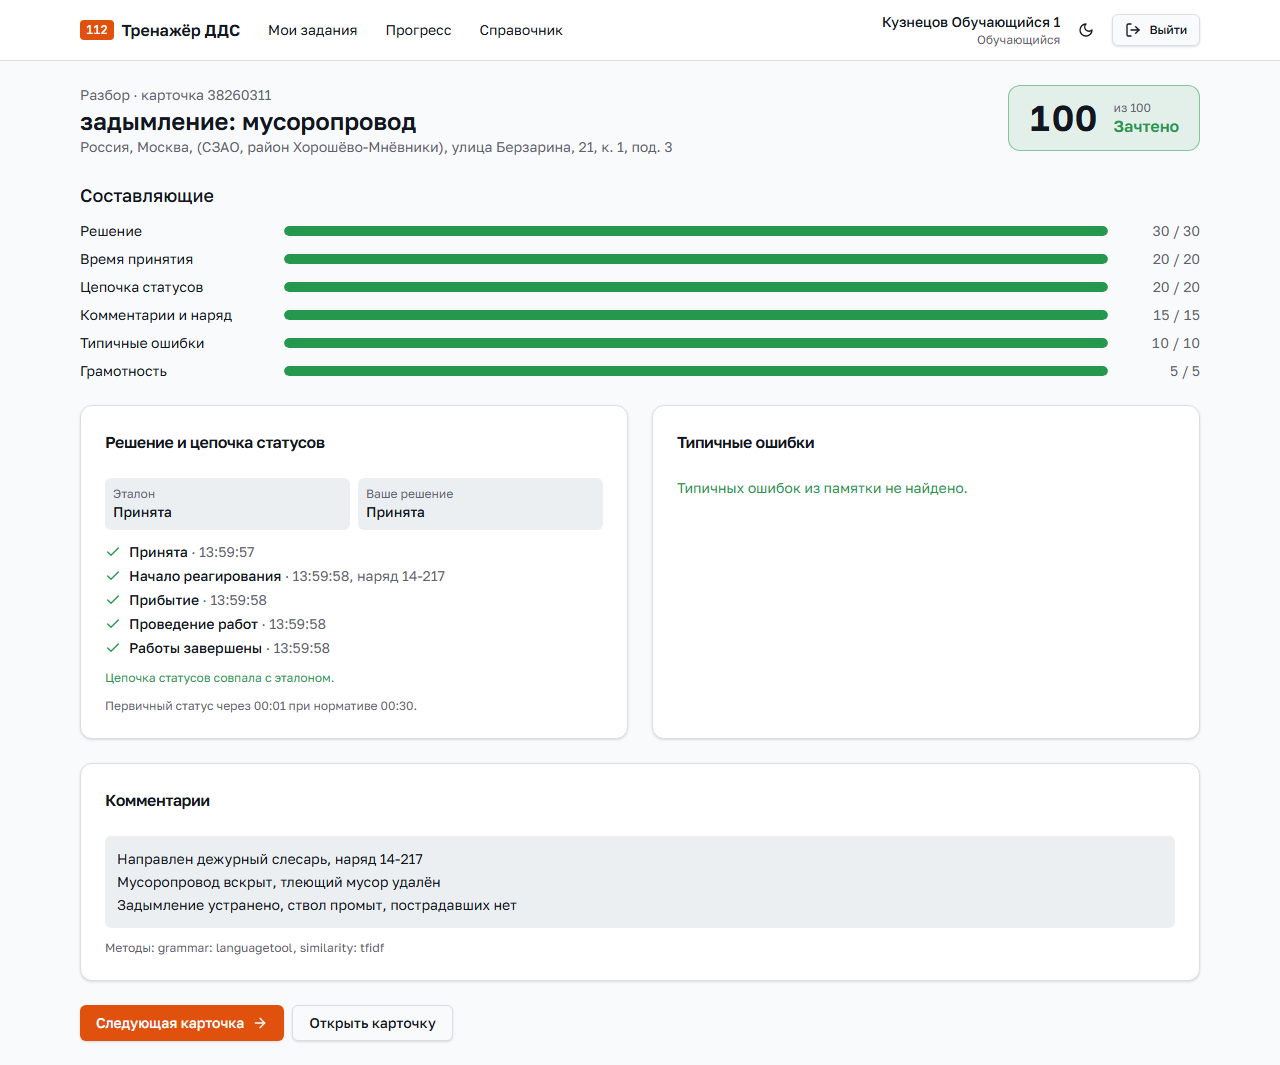
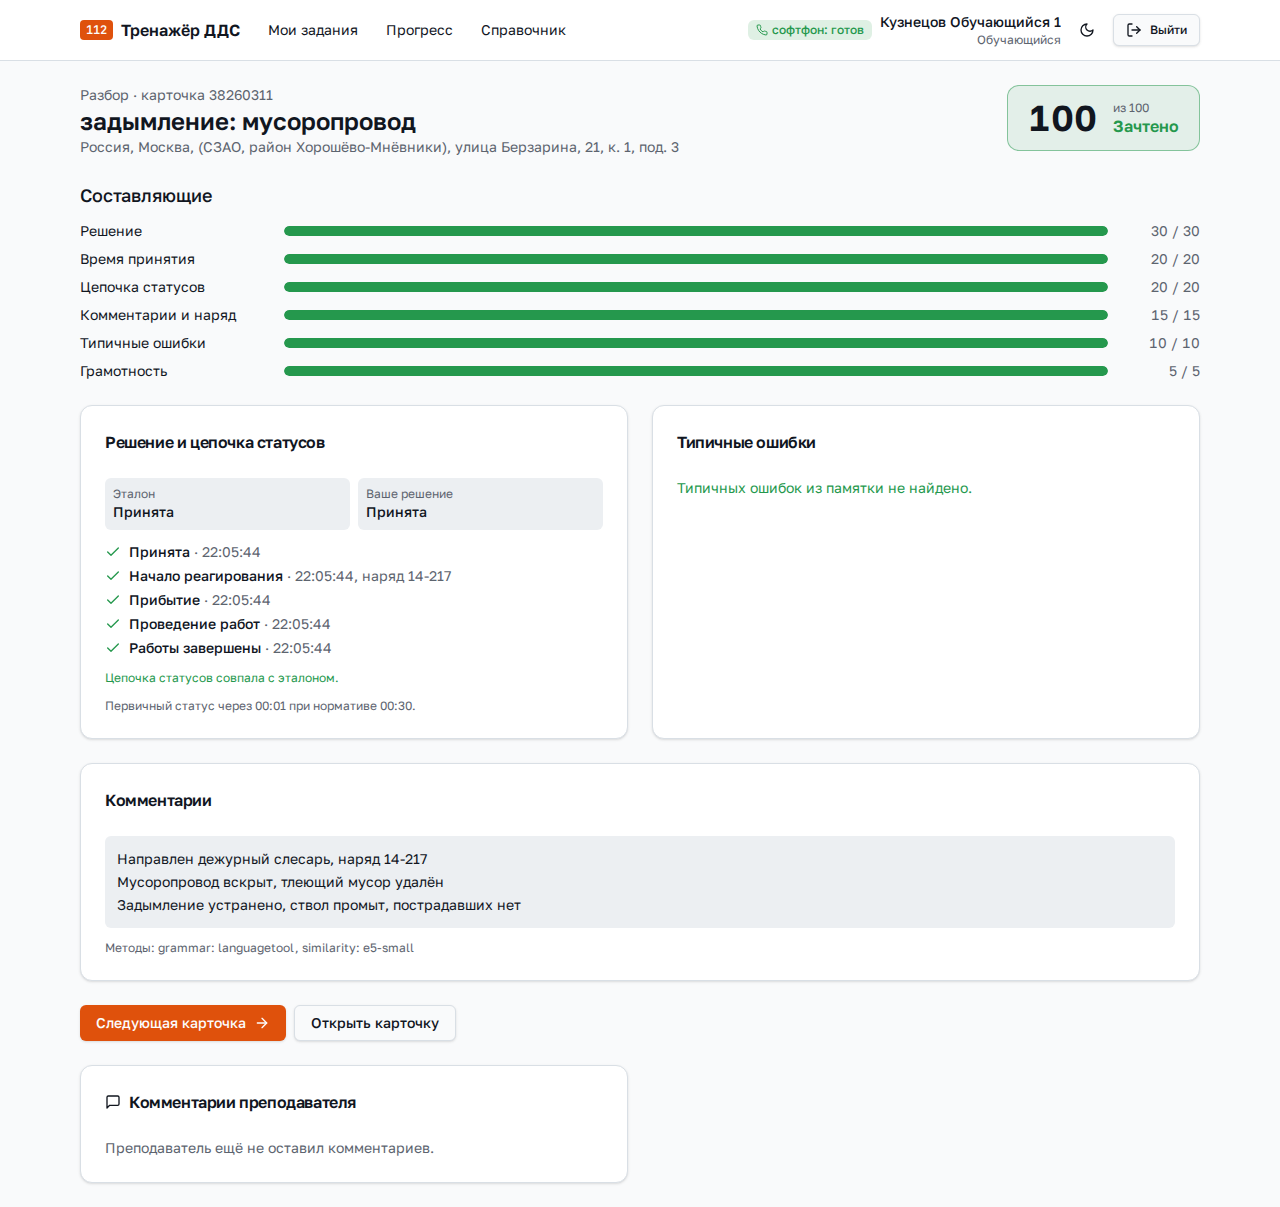
Карточка ДДС как в живой системе: переходы по шагу, строка статуса, история, главная служба
По скриншотам рабочего места ДДС от 17.09.2026 (решение Константина 21.09):
- переходы статусов по одному шагу (Принята → Начало / Завершены / Отказ; Начало →
  Прибытие / …; Прибытие → Проведение / …), расхождение с памяткой стр. 25 — в DECISIONS;
- строка статуса всегда «Статус | Номер наряда | Комментарий | ✓ ✕» (откат BUGS 8);
- без выпадающего списка «Причина отказа»: причина пишется в комментарий, оценка
  выводит её из текста, как и раньше;
- история статусов с полной датой, комментарий в той же строке после «›»;
- полоса служб переносится во второй ряд, главная служба типа подчёркнута
  (ServiceStatusOut.is_main из «Главной службы» классификатора);
- тесты статусной машины и оценки под новые переходы; e2e-помощники пишут причину
  в комментарий; USER_GUIDE, BUGS 8, DECISIONS.

diff --git a/frontend/src/emulator/card-page.tsx b/frontend/src/emulator/card-page.tsx
@@ -45,6 +45,7 @@ import { ServiceCallPanel } from "@/emulator/service-call";
 import { describeCall } from "@/emulator/service-call-model";
 import {
   acceptanceTimer,
+  formatDate,
   formatDateTime,
   formatSeconds,
   formatTime,
@@ -653,7 +654,9 @@ function CardView({
                       {entry.by === "system" ? "0" : attempt.arm.operator_no}
                     </span>
                     <span aria-hidden>›</span>
-                    <span className="font-mono">{formatTime(entry.at)}</span>
+                    <span className="font-mono">
+                      {formatDate(entry.at, true)} {formatTime(entry.at)}
+                    </span>
                     <span className="font-medium">{entry.title}</span>
                     {entry.reject_reason_title && (
                       <span>: {entry.reject_reason_title}</span>
@@ -664,9 +667,10 @@ function CardView({
                       </span>
                     )}
                     {entry.comment && (
-                      <span className="w-full pl-2 text-white/90">
-                        — {entry.comment}
-                      </span>
+                      <>
+                        <span aria-hidden>›</span>
+                        <span className="text-white/90">{entry.comment}</span>
+                      </>
                     )}
                   </li>
                 ))}
@@ -715,53 +719,35 @@ function CardView({
                       </option>
                     ))}
                   </select>
-                  {(selected.requires_order_number ||
-                    draft.order_number.trim()) && (
-                    // The order number belongs to «Начало реагирования»; at «Принята» the field
-                    // only made trainees look for something to fill in (docs/BUGS.md, 8).
-                    <input
-                      aria-label="Номер наряда"
-                      placeholder={
-                        selected.requires_order_number
-                          ? "Номер наряда (обязателен)"
-                          : "Номер наряда"
-                      }
-                      value={draft.order_number}
-                      onChange={(e) =>
-                        setDraft({ order_number: e.target.value })
-                      }
-                      className={cn(
-                        "h-8 w-44 border-b px-2 text-sm placeholder:text-[var(--arm-text-muted)] focus:border-[var(--arm-blue)] focus:outline-none",
-                        selected.requires_order_number &&
-                          !draft.order_number.trim()
-                          ? "border-[var(--arm-orange)]"
-                          : "border-[#a9adb2]",
-                      )}
-                    />
-                  )}
-                  {selected.code === STATUS_REJECTED && (
-                    <select
-                      aria-label="Причина отказа"
-                      value={draft.reject_reason}
-                      onChange={(e) =>
-                        setDraft({ reject_reason: e.target.value })
-                      }
-                      className="h-8 w-64 border-b border-[#a9adb2] bg-white px-2 text-sm focus:border-[var(--arm-blue)] focus:outline-none"
-                    >
-                      <option value="">Причина отказа…</option>
-                      {attempt.reject_reasons.map((r) => (
-                        <option key={r.code} value={r.code}>
-                          {r.title}
-                        </option>
-                      ))}
-                    </select>
-                  )}
+                  {/* The live row is always «Статус | Номер наряда | Комментарий»: the field stays
+                      even where the number is optional (docs/DECISIONS.md, карточка ДДС). */}
+                  <input
+                    aria-label="Номер наряда"
+                    placeholder={
+                      selected.requires_order_number
+                        ? "Номер наряда (обязателен)"
+                        : "Номер наряда"
+                    }
+                    value={draft.order_number}
+                    onChange={(e) =>
+                      setDraft({ order_number: e.target.value })
+                    }
+                    className={cn(
+                      "h-8 w-44 border-b px-2 text-sm placeholder:text-[var(--arm-text-muted)] focus:border-[var(--arm-blue)] focus:outline-none",
+                      selected.requires_order_number &&
+                        !draft.order_number.trim()
+                        ? "border-[var(--arm-orange)]"
+                        : "border-[#a9adb2]",
+                    )}
+                  />
                   <input
                     aria-label="Комментарий"
                     placeholder={
-                      selected.requires_comment
-                        ? "Комментарий обязателен"
-                        : "Комментарий (по желанию)"
+                      selected.code === STATUS_REJECTED
+                        ? "Причина отказа и кому передана информация"
+                        : selected.requires_comment
+                          ? "Комментарий обязателен"
+                          : "Комментарий"
                     }
                     value={draft.comment}
                     onChange={(e) => setDraft({ comment: e.target.value })}
@@ -838,6 +824,7 @@ function CardView({
             <div className="flex w-[104px] items-center px-3 text-xs text-[var(--arm-on-dark-muted)]">
               Службы:
             </div>
+            <div className="flex flex-wrap items-stretch">
             {ownService && (
               <div
                 className={cn(
@@ -880,7 +867,10 @@ function CardView({
                   />
                 </div>
                 <div
-                  className="truncate px-2 text-center text-xs font-semibold"
+                  className={cn(
+                    "truncate px-2 text-center text-xs font-semibold",
+                    ownService.is_main && "underline underline-offset-2",
+                  )}
                   title={ownService.title}
                 >
                   {ownService.short_title}
@@ -908,7 +898,10 @@ function CardView({
                   />
                 </div>
                 <div
-                  className="truncate px-2 text-center text-xs font-semibold"
+                  className={cn(
+                    "truncate px-2 text-center text-xs font-semibold",
+                    s.is_main && "underline underline-offset-2",
+                  )}
                   title={s.title}
                 >
                   {s.short_title}
@@ -919,6 +912,7 @@ function CardView({
                 </div>
               </div>
             ))}
+            </div>
             <div className="ml-auto flex items-center gap-1 px-2">
               <FlagButton
                 field="services"

diff --git a/frontend/e2e/dds.spec.ts b/frontend/e2e/dds.spec.ts
@@ -82,14 +82,12 @@ async function setStatus(
   await form
     .getByLabel("Статус", { exact: true })
     .selectOption({ label: status });
-  if (opts.reason)
-    await form
-      .getByLabel("Причина отказа")
-      .selectOption({ label: opts.reason });
   if (opts.orderNumber)
     await form.getByLabel("Номер наряда").fill(opts.orderNumber);
-  if (opts.comment)
-    await form.getByLabel("Комментарий", { exact: true }).fill(opts.comment);
+  // No reason drop-down on the live АРМ-112: the reason opens the comment.
+  const comment = [opts.reason, opts.comment].filter(Boolean).join(": ");
+  if (comment)
+    await form.getByLabel("Комментарий", { exact: true }).fill(comment);
   await form.getByRole("button", { name: "Сохранить статус" }).click();
   await expect(form).toBeHidden();
 }
@@ -205,7 +203,6 @@ test.describe("Волна 3: журнал ДДС и карточка", () => {
       .selectOption({ label: "Не принята" });
     await form.getByRole("button", { name: "Сохранить статус" }).click();
     await expect(form.getByRole("alert")).toContainText("причину отказа");
-    await form.getByLabel("Причина отказа").selectOption({ label: "Дубль" });
     await form
       .getByLabel("Комментарий", { exact: true })
       .fill(
@@ -213,8 +210,12 @@ test.describe("Волна 3: журнал ДДС и карточка", () => {
       );
     await form.getByRole("button", { name: "Сохранить статус" }).click();
     await expect(form).toBeHidden();
+    // The history line is «Не принята › comment», the reason lives in the comment text.
     await expect(page.getByTestId("own-service-panel")).toContainText(
-      "Не принята: Дубль",
+      "Не принята",
+    );
+    await expect(page.getByTestId("own-service-panel")).toContainText(
+      "Дубль: реагирование по КП 38260311",
     );
     // After «Не принята» only «Принята» remains (memo page 21).
     await page.getByRole("button", { name: "Проставить статус" }).click();

diff --git a/frontend/e2e/teacher.spec.ts b/frontend/e2e/teacher.spec.ts
@@ -42,9 +42,9 @@ async function setStatus(page: Page, status: string, opts: { orderNumber?: strin
   await page.getByRole("button", { name: "Проставить статус" }).click();
   const form = page.getByRole("form", { name: "Проставление статуса" });
   await form.getByLabel("Статус", { exact: true }).selectOption({ label: status });
-  if (opts.reason) await form.getByLabel("Причина отказа").selectOption({ label: opts.reason });
   if (opts.orderNumber) await form.getByLabel("Номер наряда").fill(opts.orderNumber);
-  if (opts.comment) await form.getByLabel("Комментарий", { exact: true }).fill(opts.comment);
+  const comment = [opts.reason, opts.comment].filter(Boolean).join(": ");
+  if (comment) await form.getByLabel("Комментарий", { exact: true }).fill(comment);
   await form.getByRole("button", { name: "Сохранить статус" }).click();
   // A final status waits for the evaluation (LanguageTool may take a few seconds when cold).
   await expect(form).toBeHidden({ timeout: 15_000 });

diff --git a/frontend/src/emulator/flag-field-model.test.ts b/frontend/src/emulator/flag-field-model.test.ts
@@ -4,8 +4,8 @@ import type { ServiceStatusOut } from "@/api/training";
 import { describeCorrection, serviceCorrection } from "@/emulator/flag-field-model";
 
 const services: ServiceStatusOut[] = [
-  { code: "moek", title: "МОЭК", short_title: "МОЭК", status: "added", status_title: "Добавлена", at: null, is_own: true },
-  { code: "moslift", title: "Мослифт", short_title: "Мослифт", status: "received", status_title: "Получена службой", at: null, is_own: false },
+  { code: "moek", title: "МОЭК", short_title: "МОЭК", status: "added", status_title: "Добавлена", at: null, is_own: true, is_main: true },
+  { code: "moslift", title: "Мослифт", short_title: "Мослифт", status: "received", status_title: "Получена службой", at: null, is_own: false, is_main: false },
 ];
 
 describe("flag corrections", () => {

diff --git a/frontend/src/emulator/journal-page.tsx b/frontend/src/emulator/journal-page.tsx
@@ -367,7 +367,7 @@ function JournalRow({
         <td colSpan={COLUMNS} className="bg-[var(--arm-dark-2)] px-4 py-1 text-xs text-[var(--arm-on-dark)]">
           <span className="text-[var(--arm-on-dark-muted)]">Описание:</span>
           <span className="ml-6 text-[var(--arm-on-dark-muted)]">
-            {formatDate(item.issued_at)} {formatTime(item.issued_at)} оп. {item.operator_no} —{" "}
+            {formatDate(item.issued_at, true)} {formatTime(item.issued_at)} оп. {item.operator_no} —{" "}
           </span>
           <span className="font-semibold">{item.description || "—"}</span>
         </td>

diff --git a/frontend/src/emulator/time.ts b/frontend/src/emulator/time.ts
@@ -22,13 +22,13 @@ export function formatTime(iso: string | null | undefined, withSeconds = true): 
   });
 }
 
-export function formatDate(iso: string | null | undefined): string {
+export function formatDate(iso: string | null | undefined, fullYear = false): string {
   if (!iso) return "";
   return new Date(iso).toLocaleDateString("ru-RU", {
     timeZone: TIME_ZONE,
     day: "2-digit",
     month: "2-digit",
-    year: "2-digit",
+    year: fullYear ? "numeric" : "2-digit",
   });
 }
 

diff --git a/frontend/src/api/schema.d.ts b/frontend/src/api/schema.d.ts
@@ -4321,6 +4321,11 @@ export interface components {
             at: string | null;
             /** Is Own */
             is_own: boolean;
+            /**
+             * Is Main
+             * @default false
+             */
+            is_main: boolean;
         };
         /** ServiceTile */
         ServiceTile: {

diff --git a/backend/tests/domain/evaluation/test_status_machine.py b/backend/tests/domain/evaluation/test_status_machine.py
@@ -7,18 +7,16 @@ from app.domain.evaluation.schemas import StatusEntry
 from tests.domain.evaluation.helpers import at
 
 
-def test_allowed_next_follows_the_memo() -> None:
+def test_allowed_next_follows_the_live_workstation() -> None:
+    """One step at a time, as the АРМ-112 of 17.09.2026 offers them (docs/DECISIONS.md)."""
     assert sm.allowed_next(None) == ["added"]
     assert sm.allowed_next("added") == ["received", "accepted", "rejected"]
     assert sm.allowed_next("received") == ["accepted", "rejected"]
     assert sm.allowed_next("rejected") == ["accepted"]  # only «Принята» after «Не принята»
-    assert sm.allowed_next("accepted") == [
-        "response_started",
-        "arrived",
-        "works_started",
-        "works_done",
-        "works_refused",
-    ]
+    assert sm.allowed_next("accepted") == ["response_started", "works_done", "works_refused"]
+    assert sm.allowed_next("response_started") == ["arrived", "works_done", "works_refused"]
+    assert sm.allowed_next("arrived") == ["works_started", "works_done", "works_refused"]
+    assert sm.allowed_next("works_started") == ["works_done", "works_refused"]
     assert sm.allowed_next("works_done") == []
     assert sm.allowed_next("works_refused") == []
 
@@ -42,6 +40,7 @@ def test_service_103_has_no_reject_statuses() -> None:
             "После «Получена службой» нельзя проставить «Прибытие»",
         ),
         ("rejected", "response_started", "not_allowed", "Доступно: «Принята»"),
+        ("accepted", "arrived", "not_allowed", "После «Принята» нельзя проставить «Прибытие»"),
         ("works_done", "accepted", "card_closed", "Карточка закрыта статусом «Работы завершены»"),
         ("accepted", "unknown", "unknown_status", "Неизвестный статус"),
         ("received", "rejected", "comment_required", "обязателен комментарий"),
@@ -73,14 +72,15 @@ def test_check_log_keeps_valid_entries_and_reports_invalid_ones() -> None:
         StatusEntry(status="received", at=at(5)),
         StatusEntry(status="accepted", at=at(10)),
         StatusEntry(status="accepted", at=at(12)),  # repeated: not allowed after «Принята»
-        StatusEntry(status="arrived", at=at(60)),
+        StatusEntry(status="arrived", at=at(60)),  # skips «Начало реагирования»
         StatusEntry(status="works_done", at=at(90)),  # missing comment: kept for scoring
         StatusEntry(status="arrived", at=at(100)),  # card is closed
     ]
     check = sm.check_log(entries)
-    assert [e.status for e in check.valid] == ["received", "accepted", "arrived", "works_done"]
+    assert [e.status for e in check.valid] == ["received", "accepted", "works_done"]
     assert [(e.status, err.code) for e, err in check.invalid] == [
         ("accepted", "not_allowed"),
+        ("arrived", "not_allowed"),
         ("arrived", "card_closed"),
     ]
     assert check.last_status == "works_done"

diff --git a/backend/app/domain/reference_data.py b/backend/app/domain/reference_data.py
@@ -45,13 +45,9 @@ RESPONSE_STATUSES: list[dict] = [
         "is_final": False,
         "requires_comment": False,
         "requires_order_number": False,
-        "allowed_next": [
-            "response_started",
-            "arrived",
-            "works_started",
-            "works_done",
-            "works_refused",
-        ],
+        # The memo (p. 25) lists all five follow-up statuses after «Принята»; the live АРМ-112
+        # (screenshots of 17.09.2026) offers them one step at a time. We follow the live system.
+        "allowed_next": ["response_started", "works_done", "works_refused"],
         "description": "Диспетчер подтверждает факт приёма информации. Реагирование будет "
         "осуществляться. Проставляется в течение 30 секунд после направления карточки в службу.",
         "memo_page": 21,
@@ -79,7 +75,7 @@ RESPONSE_STATUSES: list[dict] = [
         "is_final": False,
         "requires_comment": False,
         "requires_order_number": True,
-        "allowed_next": ["arrived", "works_started", "works_done", "works_refused"],
+        "allowed_next": ["arrived", "works_done", "works_refused"],
         "description": "Выезд сил и средств реагирования на место происшествия. Указывается номер "
         "наряда.",
         "memo_page": 22,

diff --git a/backend/tests/domain/evaluation/test_card_response.py b/backend/tests/domain/evaluation/test_card_response.py
@@ -130,6 +130,9 @@ def test_corrected_decision_earns_half() -> None:
 
 
 def test_missing_status_lowers_the_chain() -> None:
+    """A log that skips «Прибытие» (possible only outside the UI: the live-style machine
+    offers statuses one step at a time). «Проведение работ» after «Начало реагирования» is
+    not allowed, so it is dropped as invalid and the chain has 3 of 5 reference statuses."""
     scenario = card_scenario()
     attempt = card_attempt(
         {"status": "received"},
@@ -140,9 +143,10 @@ def test_missing_status_lowers_the_chain() -> None:
     )
     result = evaluate_card_response(scenario, attempt)
     chain = result.components["status_chain"]
-    assert chain.score == 16  # 4 of 5 reference statuses
-    assert chain.items[0]["missing"] == ["arrived"]
+    assert chain.score == 12
+    assert chain.items[0]["missing"] == ["arrived", "works_started"]
     assert chain.items[0]["extra"] == []
+    assert "нельзя проставить «Проведение работ»" in str(chain.items)
 
 
 def test_extra_status_is_listed() -> None:

diff --git a/backend/app/training/present.py b/backend/app/training/present.py
@@ -201,6 +201,8 @@ def _service_statuses(attempt: Attempt, body: dict, lookups: Lookups) -> list[Se
     the scenario."""
     card = body.get("card", {})
     own_code = body.get("service") or ""
+    itype = lookups.incident_types.get(str(card.get("incident_type") or ""))
+    main_code = itype.main_service if itype else None
     result: list[ServiceStatusOut] = []
     seen: set[str] = set()
 
@@ -218,6 +220,7 @@ def _service_statuses(attempt: Attempt, body: dict, lookups: Lookups) -> list[Se
                 status_title=_status_title(status, lookups),
                 at=at,
                 is_own=is_own,
+                is_main=code == main_code,
             )
         )
 

diff --git a/backend/app/training/schemas.py b/backend/app/training/schemas.py
@@ -49,6 +49,7 @@ class ServiceStatusOut(BaseModel):
     status_title: str
     at: datetime | None
     is_own: bool
+    is_main: bool = False  # the incident type's main service, underlined on the АРМ-112
 
 
 class CallerOut(BaseModel):
